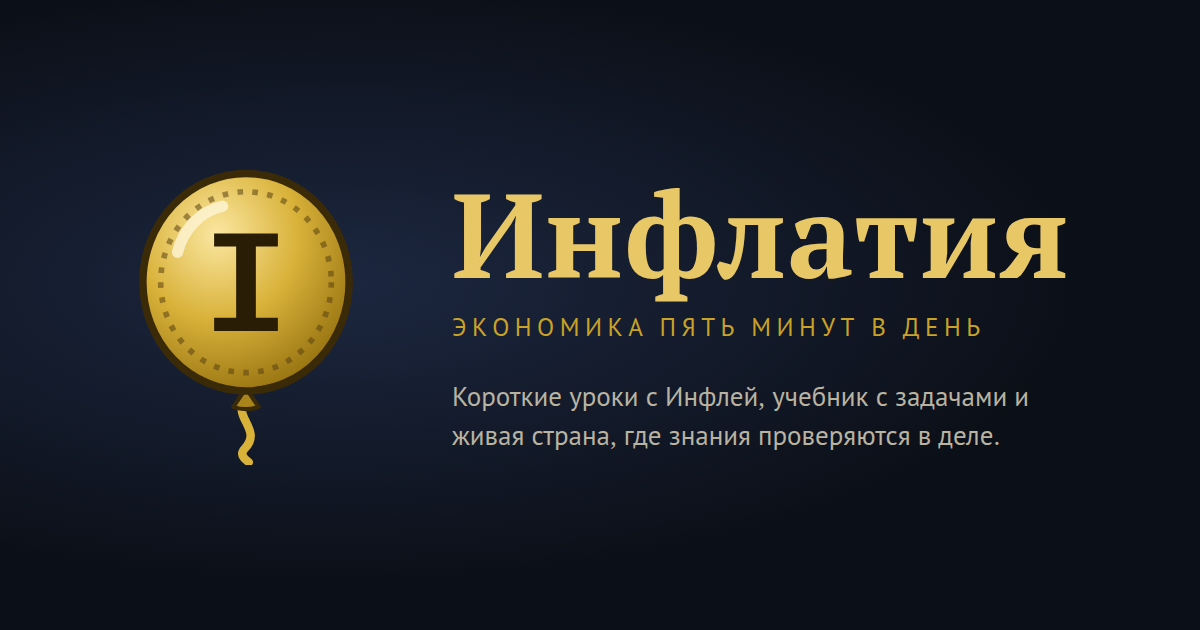
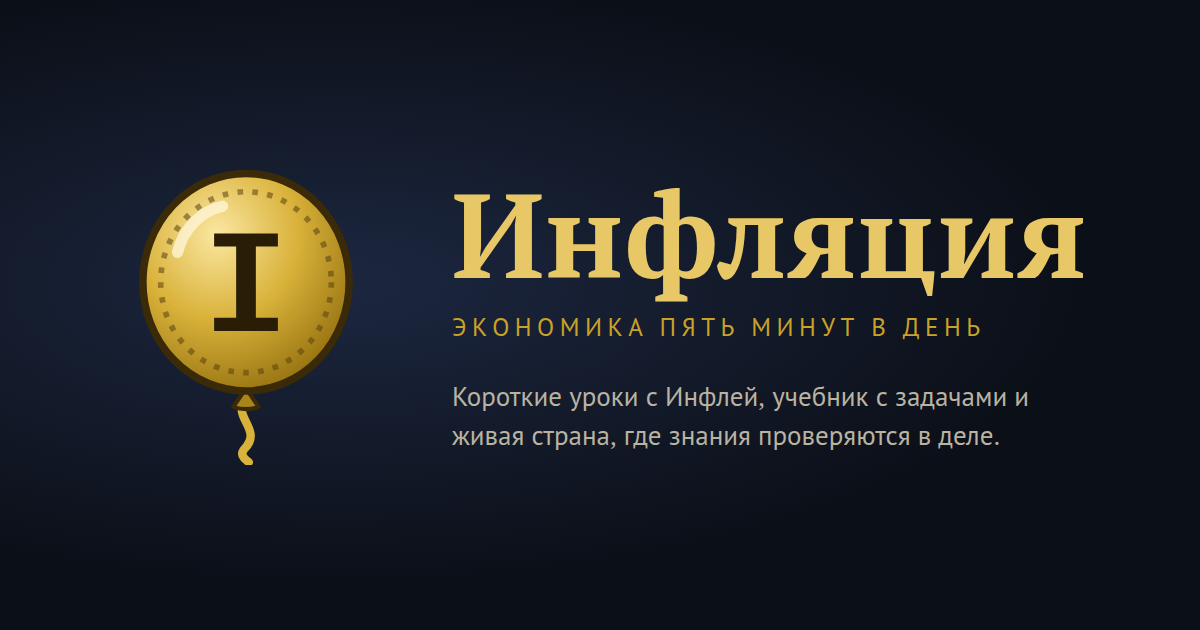
Название: Инфляция вместо Инфлатии — и приложение, и страна
«Инфлатия» по-русски звучит неудачно, а по-английски это и есть
inflation. Теперь и приложение, и страна, где живут герои, зовутся
«Инфляция»: README, index.html, манифест, картинка для соцсетей, слоган,
тексты уроков, учебника и библии мира. В docs/world.md добавлена строка
про название. Латиницей остаётся Inflatia (адрес, файлы, код).

Claude-Session: https://claude.ai/code/session_01N9pzCoTkPiSFBJyQEwHXmh

Changed region(s): [[0.6475, 0.3317, 0.925, 0.4825]]

diff --git a/src/MacroSimulator.jsx b/src/MacroSimulator.jsx
@@ -587,7 +587,7 @@ const TutorialHub = React.lazy(() => import('./tutorial.jsx').then((m) => ({ def
 export const SAVE_VERSION = 3;
 
 export function validateSnapshot(data) {
-  if (!data || data.app !== 'economic-panel') throw new Error('Это не сохранение Инфлатии.');
+  if (!data || data.app !== 'economic-panel') throw new Error('Это не сохранение Инфляции.');
   if (!data.setup || !data.economy || !Array.isArray(data.history)) throw new Error('Сохранение повреждено: не хватает состояния экономики.');
   if (data.v > SAVE_VERSION) throw new Error('Сохранение сделано в более новой версии симулятора.');
   return data;
@@ -1092,7 +1092,7 @@ function DailyCard({ onStart }) {
 /* Живая строка над меню: пустовавшая треть экрана стала биржевым табло страны.
    Числа — не из движка (меню не грузит его ради украшения), а лёгкое случайное
    блуждание вокруг стартовых значений партии: инфляция, ставка, рост, курс, индекс
-   биржи и заголовки из жизни Инфлатии и соседей. Мини-график — инфляция за
+   биржи и заголовки из жизни Инфляции и соседей. Мини-график — инфляция за
    последние «кварталы» табло. При «уменьшить движение» строка стоит на месте. */
 const TICKER_HEADLINES = ['ЦБ сохранил ключевую ставку', 'Минфин разместил облигации на 40 млрд', 'Норланд наращивает рыбный экспорт',
   'Вестравия зовёт в торговый блок', 'Урожай в Приреченской выше ожиданий', 'Дешт снизил цены на нефть', 'Стройка метро в Велеграде идёт по графику',
@@ -1360,7 +1360,7 @@ function MainMenu({ theme, setTheme, onNewGame, onNetwork, onTutorial, onLoad, o
         <div className="ems-fade-in" style={{ display: 'flex', alignItems: 'center', gap: 14, marginBottom: 26 }}>
           <InflatiaMark size={54} title={null} />
           <div style={{ minWidth: 0, flex: 1 }}>
-            <h1 className="ds-h1 menu-title" data-testid="brand">Инфлатия</h1>
+            <h1 className="ds-h1 menu-title" data-testid="brand">Инфляция</h1>
             {/* один слоган везде (docs/world.md); раздел — «Мир: страна, где знания проверяются в деле» */}
             <div className="ems-hero-eyebrow menu-eyebrow" style={{ textAlign: 'left', marginTop: 3 }}>экономика пять минут в день</div>
             <div className="menu-section-title" data-testid="world-title" style={{ fontSize: 14, color: COLOR.muted, marginTop: 4 }}>Мир: страна, где знания проверяются в деле</div>

diff --git a/src/terms.jsx b/src/terms.jsx
@@ -1,4 +1,4 @@
-/* «ПОЛЬЗОВАТЕЛЬСКОЕ СОГЛАШЕНИЕ»: простыми словами, что такое Инфлатия и как ею пользоваться.
+/* «ПОЛЬЗОВАТЕЛЬСКОЕ СОГЛАШЕНИЕ»: простыми словами, что такое Инфляция и как ею пользоваться.
    Открывается из регистрации (рядом с согласиями) и из окна аккаунта. Текст юристом не
    проверялся — вопросы к нему в docs/legal-todo.md. Вёрстка — как у страницы данных
    (src/privacy.jsx). */
@@ -8,12 +8,12 @@ import { X } from 'lucide-react';
 export const TERMS_TITLE = 'Пользовательское соглашение';
 export const TERMS_CAVEAT = 'Учебная игра, не финансовый совет';
 export const TERMS_SECTIONS = [
-  { title: 'Что такое Инфлатия', items: [
+  { title: 'Что такое Инфляция', items: [
     'Учебное приложение по экономике: уроки, учебник, задачи и игра «Мир», где страна живёт по упрощённой модели.',
     'Страна, герои, компании и новости выдуманы. Совпадения с реальными людьми и событиями случайны, кроме исторических сценариев и статистики учебника — у неё указан источник.',
   ] },
   { title: TERMS_CAVEAT, items: [
-    'Ничто в Инфлатии — ни уроки, ни игра, ни фразы героев — не совет, как вкладывать, брать кредит или тратить настоящие деньги.',
+    'Ничто в Инфляции — ни уроки, ни игра, ни фразы героев — не совет, как вкладывать, брать кредит или тратить настоящие деньги.',
     'Модель игры упрощена: в ней коэффициенты подобраны вручную, и реальная экономика ведёт себя иначе. Чем модель не похожа на настоящую — в приложении к учебнику.',
     'Монеты, кроны и награды существуют только внутри приложения, их нельзя купить, продать или обменять на деньги.',
   ] },

diff --git a/src/learn.jsx b/src/learn.jsx
@@ -1178,7 +1178,7 @@ function TopStats({ learn }) {
   );
 }
 
-/* Карта Инфлатии: берег, округа, река Велья, и дорога через места юнитов. Здание места —
+/* Карта Инфляции: берег, округа, река Велья, и дорога через места юнитов. Здание места —
    гравюра; пройденный юнит его «оживляет» (цвет, свет в окнах, дым). Нажатие по месту —
    прокрутка к юниту на дороге ниже. */
 const MAP_BOX = { x: 130, y: 70, w: 780, h: 610 };
@@ -1193,10 +1193,10 @@ function Atlas({ states, onPick, learn = null }) {
   return (
     <Card className="ln-atlas" data-testid="atlas">
       <div style={{ display: 'flex', alignItems: 'baseline', justifyContent: 'space-between', gap: 8, padding: '0 4px 6px' }}>
-        <div><div className="ds-eyebrow">Путь</div><div className="ds-h3">Дорога по Инфлатии</div></div>
+        <div><div className="ds-eyebrow">Путь</div><div className="ds-h3">Дорога по Инфляции</div></div>
         <span className="ds-faint ds-num" style={{ fontSize: 12 }}>{onPath.filter((x) => x.st.complete).length}/{UNITS.length} мест</span>
       </div>
-      <svg viewBox={`${MAP_BOX.x} ${MAP_BOX.y} ${MAP_BOX.w} ${MAP_BOX.h}`} width="100%" role="img" aria-label="Карта Инфлатии: места юнитов на дороге" style={{ display: 'block', borderRadius: 4 }}>
+      <svg viewBox={`${MAP_BOX.x} ${MAP_BOX.y} ${MAP_BOX.w} ${MAP_BOX.h}`} width="100%" role="img" aria-label="Карта Инфляции: места юнитов на дороге" style={{ display: 'block', borderRadius: 4 }}>
         <defs>
           <pattern id="ln-sea" width="16" height="12" patternUnits="userSpaceOnUse"><path d="M0,8 q4,-4 8,0 t8,0" fill="none" stroke="#5F82B3" strokeWidth="1.1" opacity=".45" /></pattern>
         </defs>

diff --git a/index.html b/index.html
@@ -8,16 +8,16 @@
     <link rel="manifest" href="/site.webmanifest" />
     <meta name="theme-color" content="#0B0F17" />
     <meta name="viewport" content="width=device-width, initial-scale=1.0" />
-    <meta name="description" content="Инфлатия — экономика пять минут в день: короткие уроки с Инфлей, учебник с задачами и живая страна, где знания проверяются в деле." />
+    <meta name="description" content="Инфляция — экономика пять минут в день: короткие уроки с Инфлей, учебник с задачами и живая страна, где знания проверяются в деле." />
     <meta property="og:type" content="website" />
-    <meta property="og:site_name" content="Инфлатия" />
-    <meta property="og:title" content="Инфлатия — экономика пять минут в день" />
+    <meta property="og:site_name" content="Инфляция" />
+    <meta property="og:title" content="Инфляция — экономика пять минут в день" />
     <meta property="og:description" content="Короткие уроки с Инфлей, учебник с задачами и живая страна: ставка, бюджет, рынок — пять минут в день." />
     <meta property="og:image" content="/og-image.png" />
     <meta property="og:image:width" content="1200" />
     <meta property="og:image:height" content="630" />
     <meta name="twitter:card" content="summary_large_image" />
-    <title>Инфлатия — экономика пять минут в день</title>
+    <title>Инфляция — экономика пять минут в день</title>
   </head>
   <body>
     <div id="root"></div>

diff --git a/src/privacy.jsx b/src/privacy.jsx
@@ -1,4 +1,4 @@
-/* «ДАННЫЕ И КОНФИДЕНЦИАЛЬНОСТЬ»: что Инфлатия хранит, где, зачем и сколько. Страница
+/* «ДАННЫЕ И КОНФИДЕНЦИАЛЬНОСТЬ»: что Инфляция хранит, где, зачем и сколько. Страница
    открывается из регистрации (согласие — галочкой), из профиля и из окна аккаунта. Там же —
    права: скачать свои данные (JSON) и удалить аккаунт со всеми данными. Среди учеников есть
    школьники, поэтому текст — простыми словами, без мелкого шрифта. */
@@ -60,7 +60,7 @@ export function PrivacyPage({ onClose }) {
             style={{ background: 'none', border: 'none', color: 'inherit', cursor: 'pointer', padding: 6 }}><X size={22} /></button>
         </div>
         <p className="ds-sub" style={{ fontSize: 15, lineHeight: 1.5, margin: '0 0 12px' }}>
-          Инфлатия — учебное приложение. Мы храним только то, без чего оно не работает, и объясняем это простыми словами.
+          Инфляция — учебное приложение. Мы храним только то, без чего оно не работает, и объясняем это простыми словами.
         </p>
         {PRIVACY_SECTIONS.map((s) => (
           <section key={s.title} style={{ margin: '14px 0' }}>

diff --git a/src/logo.jsx b/src/logo.jsx
@@ -1,13 +1,13 @@
-/* Логотип Инфлатии: монета, надутая как воздушный шарик, — деньги, которые
+/* Логотип Инфляции: монета, надутая как воздушный шарик, — деньги, которые
    «надуваются», — с колонной «I» посередине. Те же контуры, что в public/favicon.svg
    (и в иконках, собранных из неё scripts/icons.mjs); меняя знак, меняйте оба. */
 import React from 'react';
 
-export function InflatiaMark({ size = 48, title = 'Инфлатия' }) {
+export function InflatiaMark({ size = 48, title = 'Инфляция' }) {
   // у каждого экземпляра свой id градиента: два логотипа на странице не должны делить один
   const gid = `inflatia-g-${React.useId().replace(/:/g, '')}`;
   return (
-    // title={null} — знак рядом с надписью «Инфлатия»: для чтения с экрана он лишний
+    // title={null} — знак рядом с надписью «Инфляция»: для чтения с экрана он лишний
     <svg viewBox="0 0 64 64" width={size} height={size} {...(title ? { role: 'img', 'aria-label': title } : { 'aria-hidden': true })} style={{ flexShrink: 0, display: 'block' }}>
       <defs>
         <radialGradient id={gid} cx="36%" cy="28%" r="78%">

diff --git a/src/learn-feed.jsx b/src/learn-feed.jsx
@@ -294,7 +294,7 @@ export function Feed({ mode, title, entries, picture, skipTitle = null, flagFor 
       <div className="fd" data-mode="listen" data-testid="listen-card" data-voice={speech.voice ? 'on' : 'off'}>
         <div className="fd-mast">
           <Guilloche height={14} opacity={0.45} />
-          <div className="fd-mast-name">Радио Инфлатии · эфир</div>
+          <div className="fd-mast-name">Радио Инфляции · эфир</div>
           <h2 className="ds-h2">{title}</h2>
           {speech.voice && <div className="fd-voice-note" data-testid="voice-caption">{VOICE_CAPTION}</div>}
           {speech.canVoice && (speech.muted
@@ -312,7 +312,7 @@ export function Feed({ mode, title, entries, picture, skipTitle = null, flagFor 
     <div className="fd" data-mode={mode} data-testid={mode === 'listen' ? 'listen-card' : 'story-feed'} data-voice={speech.voice ? 'on' : 'off'}>
       <div className="fd-mast">
         <Guilloche height={14} opacity={0.45} />
-        <div className="fd-mast-name">{mode === 'listen' ? 'Радио Инфлатии · эфир' : 'Вестник Инфлатии · переписка'}</div>
+        <div className="fd-mast-name">{mode === 'listen' ? 'Радио Инфляции · эфир' : 'Вестник Инфляции · переписка'}</div>
         <h2 className="ds-h2">{title}</h2>
       </div>
       {entries.map((e) => (

diff --git a/src/ds-art.jsx b/src/ds-art.jsx
@@ -295,7 +295,7 @@ export function Engraving({ kind = 'store', alive = false, size = 120, color = '
       style={{ color: ink, display: 'block', flexShrink: 0 }}>{inner}</svg>
   );
 }
-// та же гравюра внутри другого рисунка (карта Инфлатии): x, y — левый верхний угол, scale — масштаб
+// та же гравюра внутри другого рисунка (карта Инфляции): x, y — левый верхний угол, scale — масштаб
 export function EngravingG({ kind = 'store', alive = false, x = 0, y = 0, scale = 1, color = 'var(--u)' }) {
   const { inner, ink } = useEngraving(kind, alive, color);
   return <g transform={`translate(${x},${y}) scale(${scale})`} style={{ color: ink }} data-kind={kind} data-alive={String(alive)}>{inner}</g>;
@@ -306,7 +306,7 @@ export function Clipping({ issue, rubric, children, testid }) {
   return (
     <div style={{ filter: 'drop-shadow(0 2px 3px var(--ds-shade))', transform: 'rotate(-.6deg)' }} data-testid={testid}>
       <div className="ds-clip">
-        <div className="ds-clip-mast">Вестник Инфлатии</div>
+        <div className="ds-clip-mast">Вестник Инфляции</div>
         <div className="ds-clip-meta"><span>{issue}</span><span>{rubric}</span></div>
         {children}
       </div>

diff --git a/src/welcome.jsx b/src/welcome.jsx
@@ -88,7 +88,7 @@ function Hello({ go }) {
         <Guilloche height={26} />
         <div style={{ margin: '12px 0 4px' }}><Rosette size={150} opacity={0.4}><Mascot mood="wave" size={92} /></Rosette></div>
         {/* один знак и одно начертание названия с «Миром» (src/logo.jsx) */}
-        <h1 className="ds-h1" style={{ fontSize: 34, letterSpacing: '.02em', display: 'flex', alignItems: 'center', gap: 10 }} data-testid="brand"><InflatiaMark size={40} title={null} />Инфлатия</h1>
+        <h1 className="ds-h1" style={{ fontSize: 34, letterSpacing: '.02em', display: 'flex', alignItems: 'center', gap: 10 }} data-testid="brand"><InflatiaMark size={40} title={null} />Инфляция</h1>
         <div className="ds-eyebrow" style={{ marginTop: 6 }}>экономика пять минут в день</div>
         <ul data-testid="welcome-values" style={{ listStyle: 'none', padding: 0, margin: '14px 0', textAlign: 'left', maxWidth: 380, display: 'grid', gap: 8 }}>
           {VALUE_POINTS.map(([t, d]) => (

diff --git a/src/ds-tokens.js b/src/ds-tokens.js
@@ -33,7 +33,7 @@ export const DS_SPACE = [0, 4, 8, 12, 16, 24, 32];
 export const DS_RADIUS = { s: 4, m: 8, l: 14 };
 export const DS_SIZE = { xs: 12.5, s: 14, m: 16, l: 18, xl: 22, xxl: 28, hero: 34 };
 
-/* Юниты — места на карте Инфлатии, по порядку курса дорога идёт спиралью: из Мастерской
+/* Юниты — места на карте Инфляции, по порядку курса дорога идёт спиралью: из Мастерской
    по часовой вдоль берега, потом внутренним кольцом к центру — без пересечений. Цвет — как у купюры своего достоинства (белый текст
    на нём читается с контрастом не ниже 4.5:1), здание — гравюра (src/ds.jsx, Engraving),
    region — округ карты, at — точка места на карте (поле 1000×720 из src/lib/mapgeo.js). */

diff --git a/src/lib/catalog.js b/src/lib/catalog.js
@@ -4,7 +4,7 @@
    загружается отдельно, когда партия начинается. Движок импортирует их отсюда
    и экспортирует дальше как прежде. */
 /* =========================================================================================
-   ЯДРО МОДЕЛИ Инфлатии — чистые функции, без React и DOM.
+   ЯДРО МОДЕЛИ Инфляции — чистые функции, без React и DOM.
    Единственный источник истины: импортируется и клиентом (src/MacroSimulator.jsx, для
    соло-игры), и сервером (api/_lib/engine.js, для мультиплеера). Не дублировать — иначе
    у игроков разойдутся случайные шоки и результаты кварталов.

diff --git a/src/learn/__tests__/course.test.js b/src/learn/__tests__/course.test.js
@@ -34,7 +34,7 @@ it('на Пути уроками — четыре юнита по уровням
   expect(LEVELS.map((l) => l.title)).toEqual(['Начальный', 'Базовый', 'Средний', 'Продвинутый', 'Профессиональный']);
 });
 
-// карта «Дорога по Инфлатии»: места идут по порядку Пути, дорога не пересекает себя,
+// карта «Дорога по Инфляции»: места идут по порядку Пути, дорога не пересекает себя,
 // здания и подписи мест с уроками не наезжают друг на друга
 it('карта Пути: дорога без самопересечений, места с уроками не перекрываются', () => {
   const pts = UNITS.map((u) => placeOf(u.id).at);
